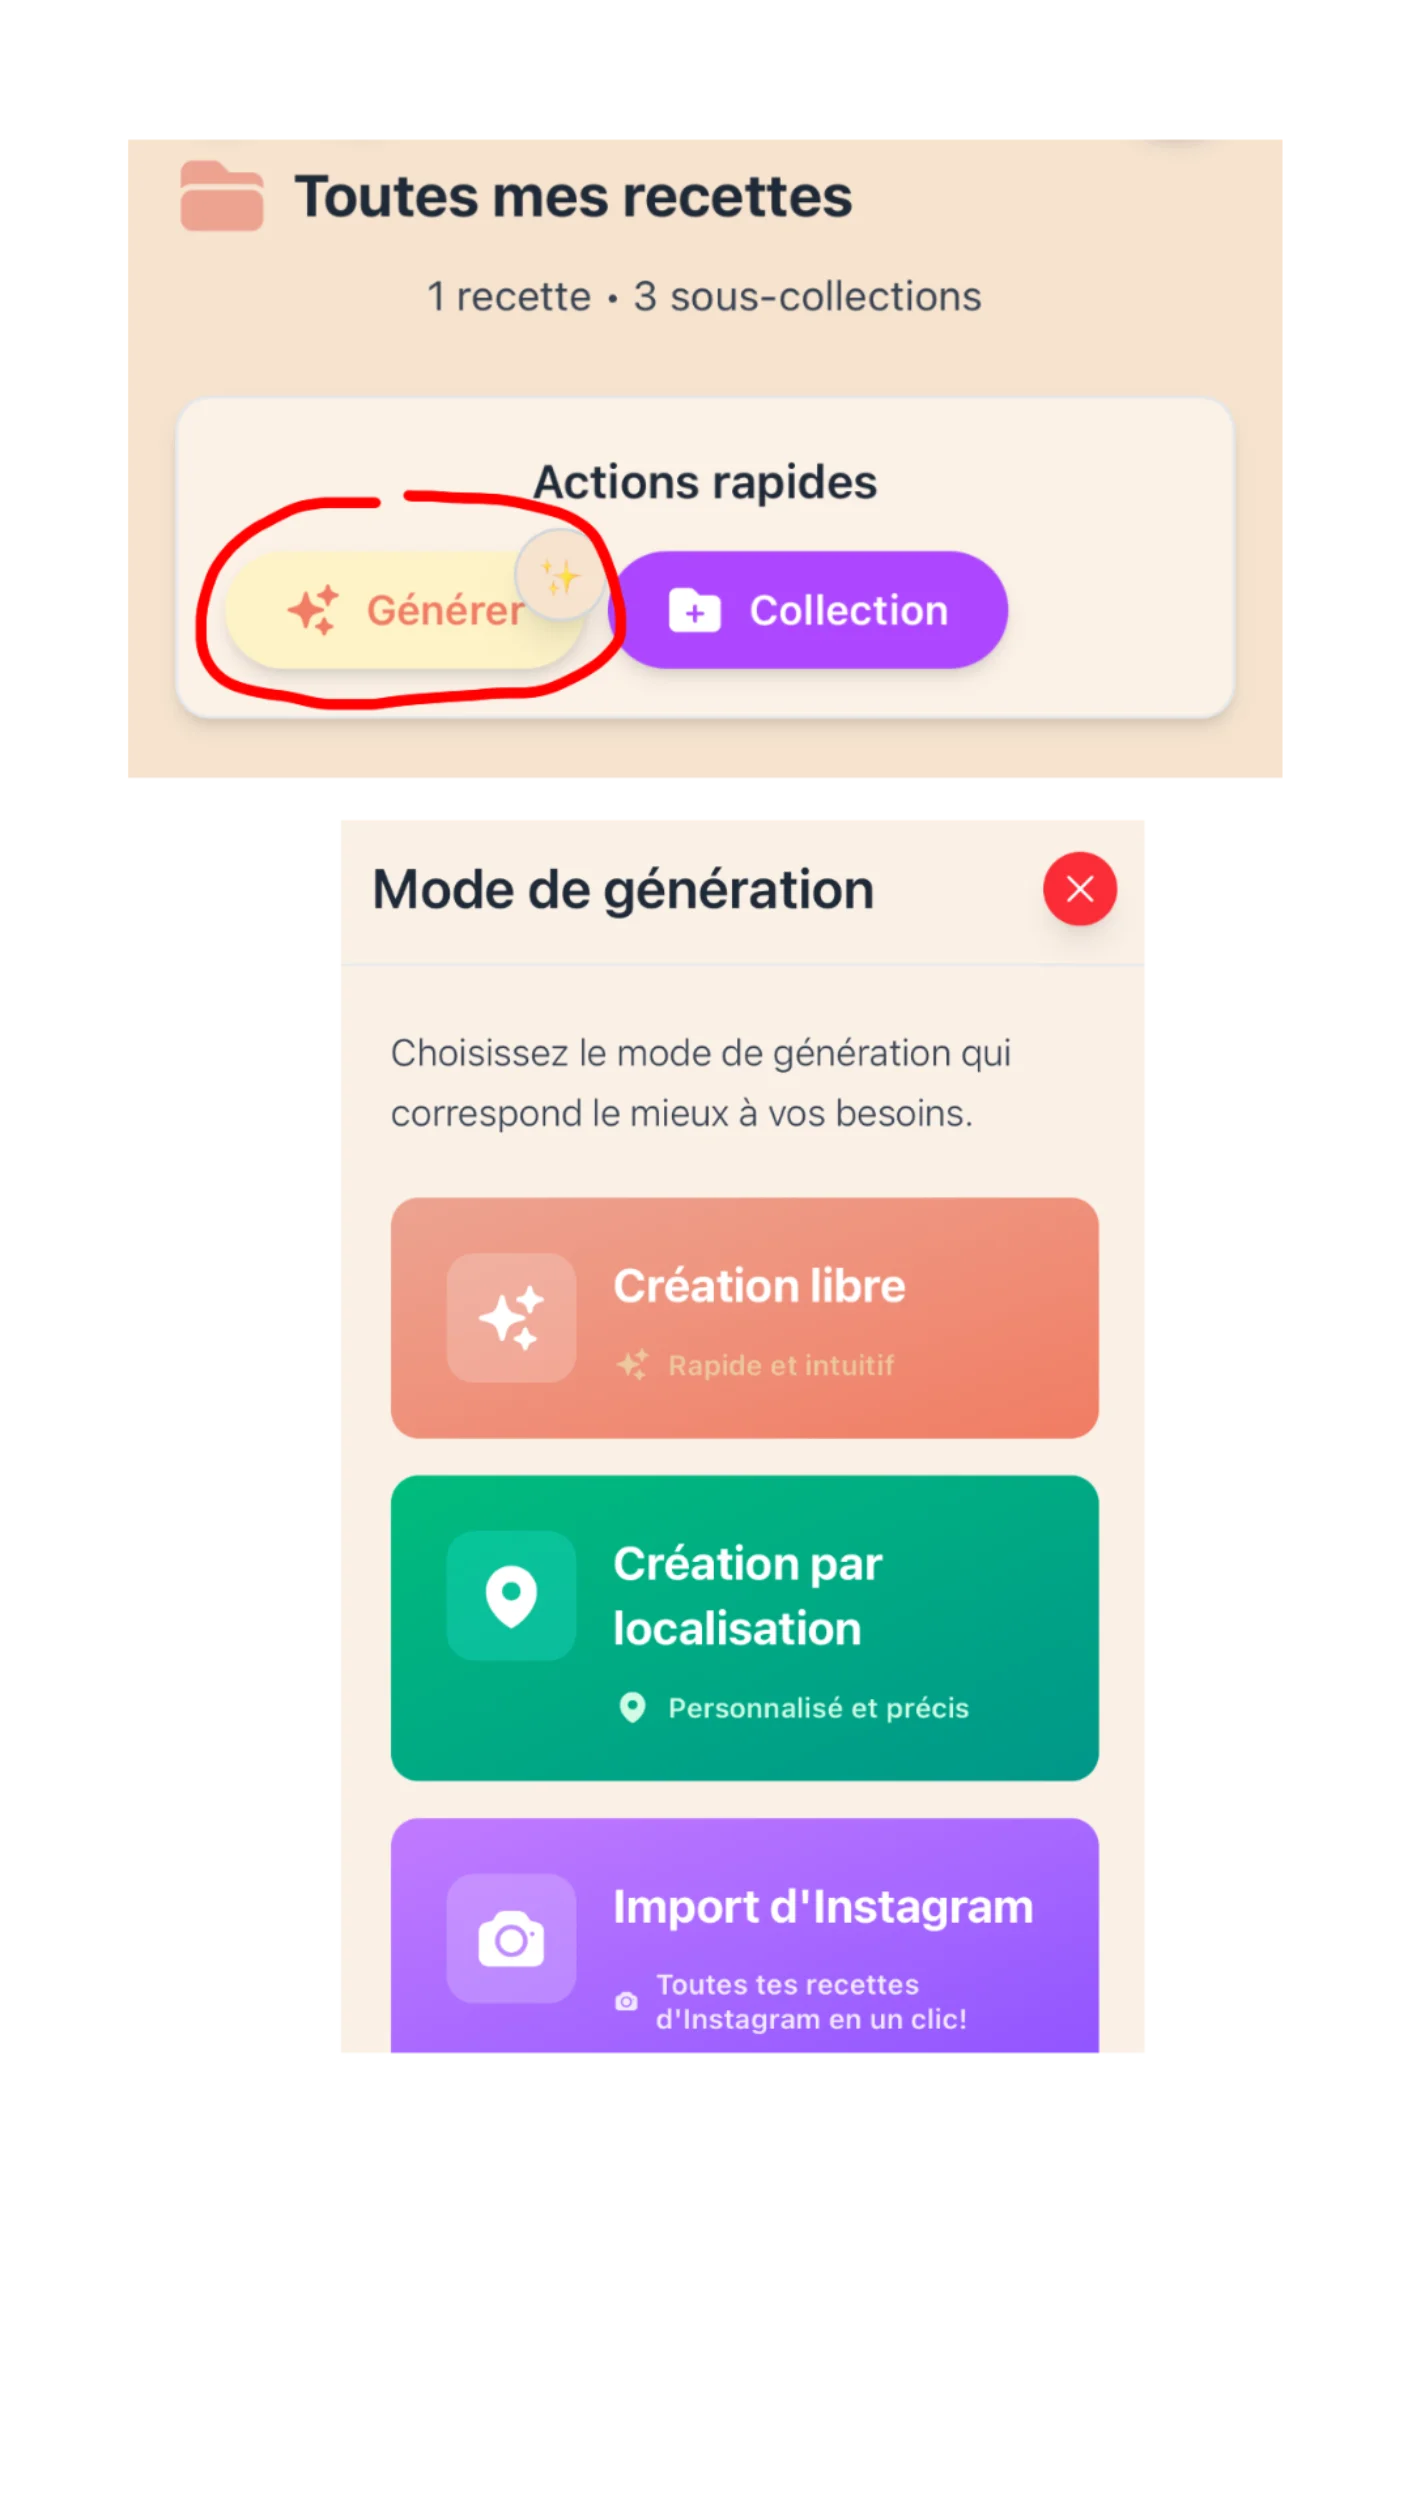
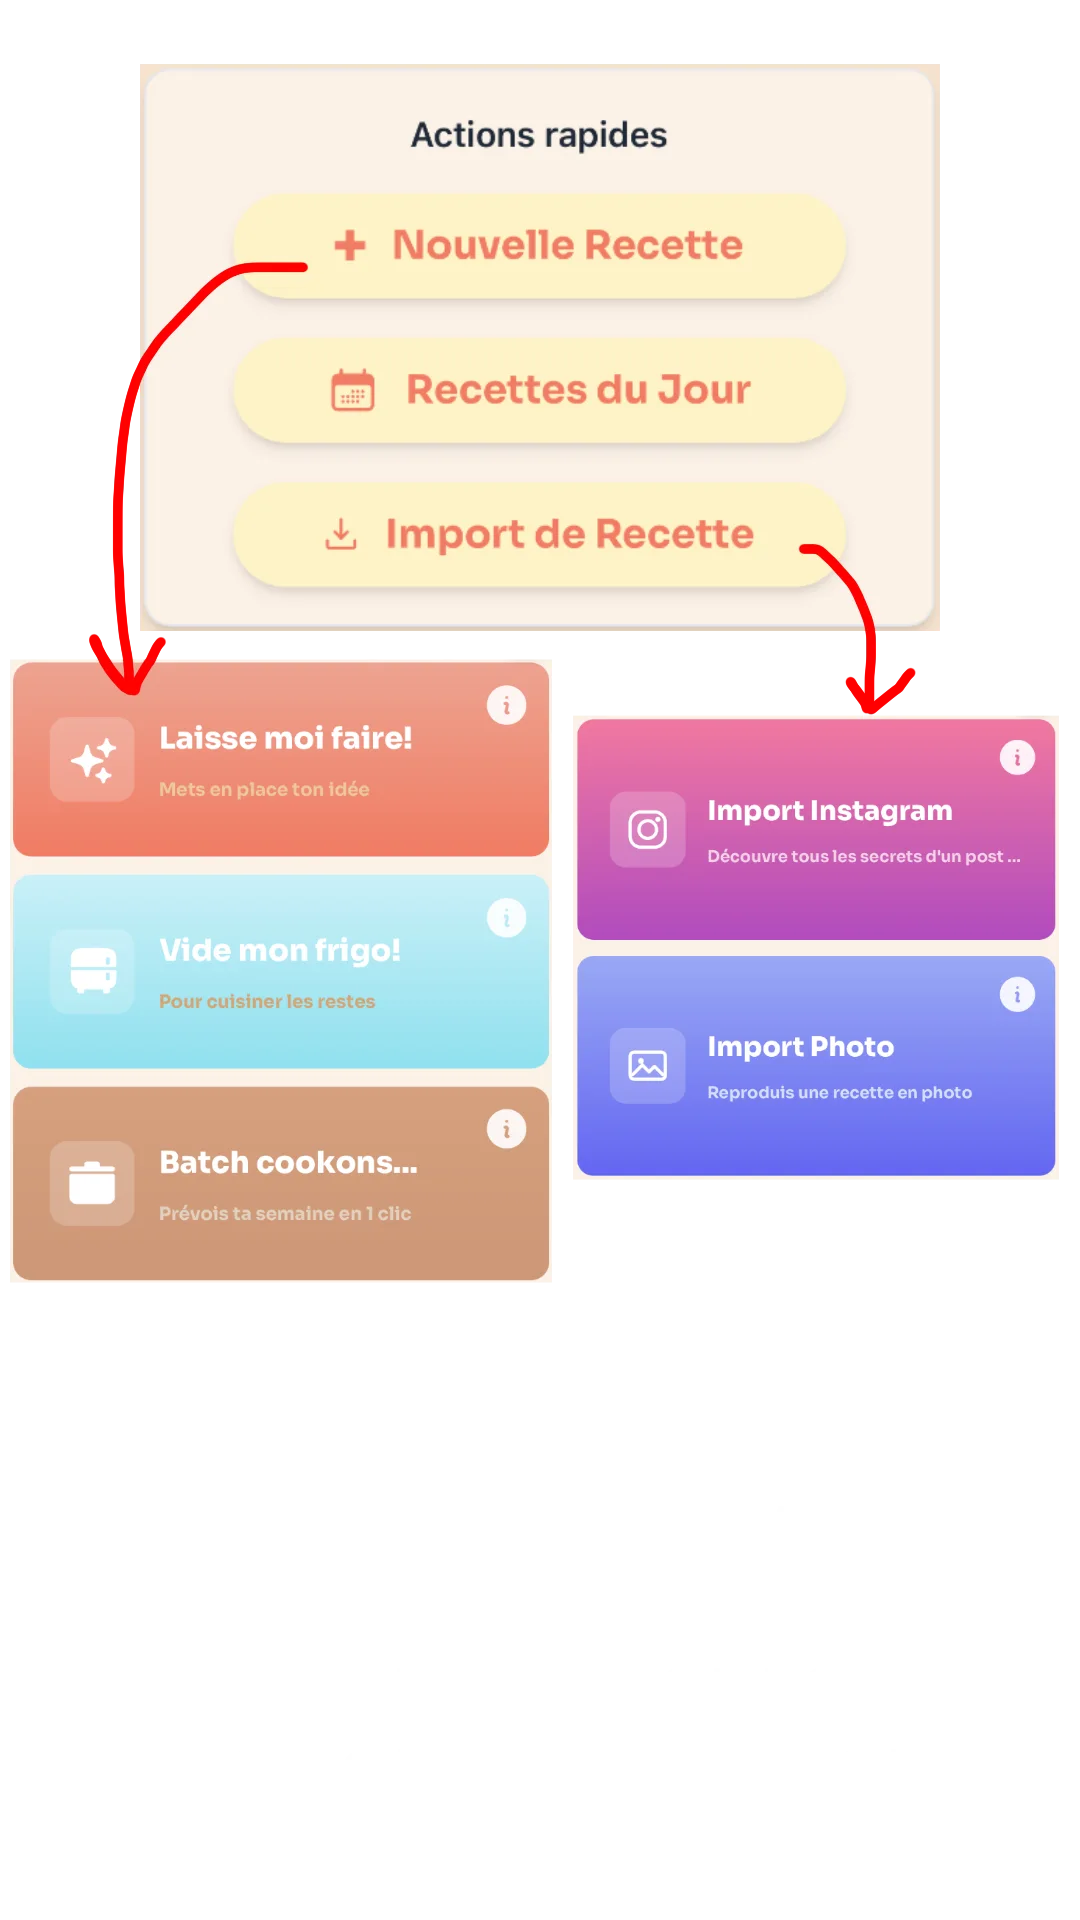
updated onboarding stuffs: screens, small bugs & improvements

diff --git a/src/components/modals/CreditPaywallModal.tsx b/src/components/modals/CreditPaywallModal.tsx
@@ -5,7 +5,7 @@ import usePaywallProducts from "../../api/hooks/usePaywallProducts";
 import { TrackingService } from "../../api/tracking/TrackingService";
 import { SKAdNetworkService } from "../../api/tracking/skadnetwork/SKAdNetworkService";
 import { SKAdNetworkConversionValue } from "../../api/tracking/skadnetwork/SKAdNetworkConversionValue";
-import { useEffect, useLayoutEffect, useRef, useState } from "react";
+import { useEffect, useState } from "react";
 import PaywallContent, { PaywallTrigger } from "../paywall/PaywallContent";
 import useIsMobile from "../../hooks/useIsMobile";
 import { usePostHog } from "../../contexts/PostHogContext";
@@ -27,39 +27,6 @@ export default function CreditPaywallModal({
     const isMobile = useIsMobile();
     const { trackEvent } = usePostHog();
     const [creditsSheetOpen, setCreditsSheetOpen] = useState(false);
-    const modalRef = useRef<HTMLDivElement>(null);
-
-    useLayoutEffect(() => {
-        if (!isMobile) return;
-        const node = modalRef.current;
-        if (!node) return;
-        const parentEl = node.parentElement;
-        if (!parentEl) return;
-
-        const update = () => {
-            (node.style as CSSStyleDeclaration & { zoom: string }).zoom = '1';
-            const naturalH = node.scrollHeight;
-            const availableH = parentEl.clientHeight;
-            const newZoom = naturalH > 0 ? Math.min(1, availableH / naturalH) : 1;
-            (node.style as CSSStyleDeclaration & { zoom: string }).zoom =
-                newZoom < 1 ? String(newZoom) : '';
-        };
-
-        const rafId = requestAnimationFrame(update);
-        window.addEventListener('resize', update);
-        window.addEventListener('orientationchange', update);
-        return () => {
-            cancelAnimationFrame(rafId);
-            window.removeEventListener('resize', update);
-            window.removeEventListener('orientationchange', update);
-        };
-    }, [
-        isMobile,
-        creditsSheetOpen,
-        products.isLoading,
-        products.isPurchasing,
-        products.purchaseError,
-    ]);
 
     useEffect(() => {
         document.body.style.overflow = 'hidden';
@@ -110,12 +77,11 @@ export default function CreditPaywallModal({
             onClick={handleBackdropClick}
         >
             <div
-                ref={modalRef}
                 className="w-full max-w-[440px] rounded-xl shadow-2xl relative"
                 style={{
                     background: 'linear-gradient(165deg, #f17c63 0%, #e8694f 25%, #f2a96f 55%, #eda391 80%, #edc79e 100%)',
                     maxHeight: '100%',
-                    overflowY: isMobile ? 'hidden' : 'auto',
+                    overflowY: 'auto',
                     WebkitOverflowScrolling: 'touch',
                 }}
                 onClick={(e) => e.stopPropagation()}

diff --git a/src/components/onboarding/LiquidGlassModal.tsx b/src/components/onboarding/LiquidGlassModal.tsx
@@ -1,5 +1,7 @@
 import { useState, useCallback, useRef } from "react";
 import { useNavigate } from "react-router-dom";
+import { successHaptic } from "../../haptics/success";
+import { lightHaptic } from "../../haptics/light";
 
 const screenshots = Object.keys(
   import.meta.glob("/public/onboarding/modal_screenshots/*", { eager: false })
@@ -47,12 +49,18 @@ export default function LiquidGlassModal() {
   const isDraggingRef = useRef(false);
 
   const goNext = useCallback(() => {
-    setCurrentIndex((i) => Math.min(i + 1, screenshots.length - 1));
-  }, []);
+    if (currentIndex < screenshots.length - 1) {
+      lightHaptic();
+      setCurrentIndex(currentIndex + 1);
+    }
+  }, [currentIndex]);
 
   const goPrev = useCallback(() => {
-    setCurrentIndex((i) => Math.max(i - 1, 0));
-  }, []);
+    if (currentIndex > 0) {
+      lightHaptic();
+      setCurrentIndex(currentIndex - 1);
+    }
+  }, [currentIndex]);
 
   const handleImageClick = useCallback(
     (e: React.MouseEvent<HTMLDivElement>) => {
@@ -93,6 +101,7 @@ export default function LiquidGlassModal() {
 
   const handleOpen = useCallback(() => {
     if (!isOpen) {
+      successHaptic();
       setCurrentIndex(0);
       setIsOpen(true);
     }
@@ -113,7 +122,7 @@ export default function LiquidGlassModal() {
           transition-all duration-500 ease-in-out
           overflow-hidden
           ${isOpen
-            ? "w-[90vw] h-[80vh] h-[80dvh] bg-white/20 cursor-default"
+            ? "w-[90vw] h-[80vh] h-[80dvh] landscape:w-auto landscape:aspect-[9/16] landscape:max-w-[90vw] bg-white/20 cursor-default"
             : "w-[280px] h-[56px] bg-white/15 cursor-pointer hover:bg-white/25 hover:scale-105 active:scale-95"
           }
         `}
@@ -173,8 +182,8 @@ export default function LiquidGlassModal() {
                 <GlassProgressDots total={screenshots.length} current={currentIndex} />
               </div>
               <button
-                onClick={(e) => { e.stopPropagation(); navigate("/login"); }}
-                className={`absolute h-[4vh] px-6 rounded-full bg-white/20 backdrop-blur-sm border border-white/30 text-white font-semibold whitespace-nowrap cursor-pointer hover:bg-white/30 transition-all duration-[400ms] ${isLast ? "opacity-100 scale-100" : "opacity-0 scale-90 pointer-events-none"}`}
+                onClick={(e) => { e.stopPropagation(); successHaptic(); navigate("/login"); }}
+                className={`absolute h-[5vh] px-6 rounded-full bg-white/20 backdrop-blur-sm border border-white/30 text-white font-semibold whitespace-nowrap cursor-pointer hover:bg-white/30 transition-all duration-[400ms] ${isLast ? "opacity-100 scale-100" : "opacity-0 scale-90 pointer-events-none"}`}
               >
                 Débuter
               </button>

diff --git a/src/pages/Onboarding.tsx b/src/pages/Onboarding.tsx
@@ -108,6 +108,9 @@ export default function Onboarding() {
   return (
     <div className="relative w-full h-screen h-dvh bg-gradient-to-br from-cout-purple via-cout-base to-cout-purple flex overflow-hidden">
       <LiquidGlassModal />
+      {/* En paysage (w > h), on contraint les colonnes à un ratio 9:16 centré ;
+          le dégradé de fond remplit les gouttières. En portrait, full-bleed. */}
+      <div className="flex h-full w-full overflow-hidden landscape:w-auto landscape:aspect-[9/16] landscape:mx-auto">
       {columnImages.map((images, colIndex) => {
         const tripled = [...images, ...images, ...images];
         return (
@@ -129,6 +132,7 @@ export default function Onboarding() {
           </div>
         );
       })}
+      </div>
     </div>
   );
 }

diff --git a/src/components/collections/SampleRecipeShowcase.tsx b/src/components/collections/SampleRecipeShowcase.tsx
@@ -1,5 +1,6 @@
 import { useState, useMemo, useEffect, useRef } from "react";
 import { useNavigate } from "react-router-dom";
+import { lightHaptic } from "../../haptics/light";
 
 const ALL_SAMPLE_RECIPES = [
     { image: "/onboarding/images_webp/05174abd-b372-4c04-8575-dbd473d4189f.webp", name: "Pizza margherita basilic et mozzarella" },
@@ -64,6 +65,7 @@ export default function SampleRecipeShowcase() {
     }, [expandedIndex]);
 
     const handleThumbnailClick = (index: number) => {
+        lightHaptic();
         if (expandedIndex === index) {
             setExpandedIndex(null);
             setShowOverlay(false);
